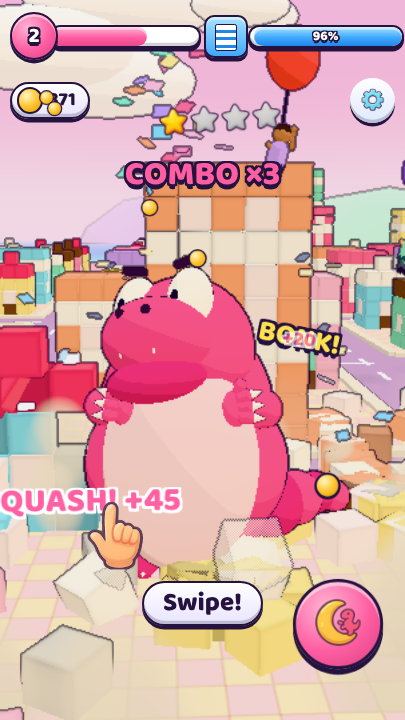
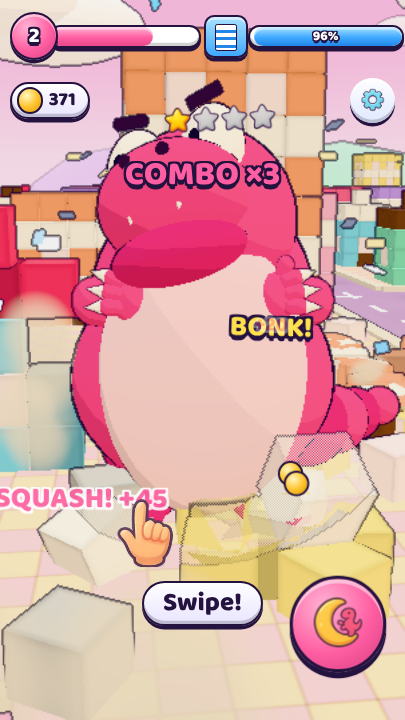
Toy City Stomp: Bonbon selalu terlihat (kamera sinematik dan lompatan) (#62)
* fix: market-check baca feed v4; cek pasar 2026-11-19

Endpoint feed pindah dari /v3/feed ke /v4/feed, jadi Players' Choice kosong.
Task: cek backend Astrocade 2026-11-19

Claude-Session: https://claude.ai/code/session_01S4KwR7MKC4j1g8MStTRCUH

* chore: upgrade otak ASTROCADE.md, cek backend 19 Nov

Tipe tercepat diukur ulang dari laju plays live 132 game; 8 game teratas
dibedah untuk alasan tidak di-skip dan sesi panjang; cara ukur diperbarui
(feed v4, /v3/games lewat halaman game tamu, astrotopper harian).
Task: cek backend Astrocade 2026-11-19

Claude-Session: https://claude.ai/code/session_01S4KwR7MKC4j1g8MStTRCUH

* chore: upgrade otak ASTROCADE.md, rumus genre hancurkan

9 game hancurkan teratas dibedah (Smash Everything, Kaiju City, Prank City,
Crash Bot Lab, Robo-Crash, 2 TNT voxel, 2 ragdoll): hook, umpan balik,
kombo/eskalasi, koleksi alat, sasaran tak habis, pemicu share, aturan aman anak.
Task: cek backend Astrocade 2026-11-19

Claude-Session: https://claude.ai/code/session_01S4KwR7MKC4j1g8MStTRCUH

* feat: Toy City Stomp, uji rupa 3D monster raksasa di kota mainan

Bonbon berjalan satu jari, gigit balok, rumah ambruk, menara domino, mobil penyok,
warga balon, tumbuh 8 tahap, kombo, Putar Ekor, layar hasil, 7 bahasa, tembus pandang.
Alat baru tools/artifact-modules.js untuk artifact game modul ES.
Task: GDD Toy City Stomp K1-K6 (artifact 2026-11-19)

Claude-Session: https://claude.ai/code/session_01S4KwR7MKC4j1g8MStTRCUH
[…]

diff --git a/prototypes/toy-city-stomp/game.js b/prototypes/toy-city-stomp/game.js
@@ -351,7 +351,7 @@ function startGame(mode) {
     resize();
     S = {
       x: city.start.x, z: city.start.z, yaw: Math.PI, stage: 1, xp: 0, points: 0, coins: 0, combo: 0, comboT: 0, bestCombo: 0,
-      time: 0, attackT: 0, tooBigT: 0, slowT: 0, hitstopT: 0, lookT: 0, turnT: 0, lookP: new THREE.Vector3(), fidgeted: false, trauma: 0, finished: false, idle: 0, touched: false,
+      time: 0, attackT: 0, tooBigT: 0, slowT: 0, hitstopT: 0, lookT: 0, turnT: 0, lookP: new THREE.Vector3(), fidgeted: false, airY: 0, trauma: 0, finished: false, idle: 0, touched: false,
       skillCd: 0, spinT: 0, sweepT: 0, moving: false, speed: 0, chainShown: 0, stepT: 0, firstBonk: false,
       scale: G.baseScale, scaleTarget: G.baseScale, kbX: 0, kbZ: 0, bonusCoins: 0, trucks: 0, truckSet: new Set(), rainbowUsed: false, rainbowT: 0, jingleT: 2, spirit: 0, dizzyT: 0, clock: 0, acts: [], jump: null, skillCdMax: 1, bossDone: false, avoidX: 0, avoidZ: 0, avoidT: 0, pct: 100, cars: 0, hits: 0, blocks0: 0, poseT: 0, carTipT: 2, thrown: 0, daily, dailyBonus: 0, theme: ti, day, collapses: 0, stickerAt: 0, newSticker: '', newCity: -1,
     };
@@ -1078,7 +1078,12 @@ function startGame(mode) {
   function startCine(kind, x, z, dur) {
     if (calm || !dur || camOverride) return;
     if (cine.kind && performance.now() / 1000 - cine.t0 < cine.dur && kind !== 'boss') return;
-    Object.assign(cine, { kind, t0: performance.now() / 1000, dur, x, z });
+    if (kind === 'collapse') { monV.set(x, 2, z).project(camera); if (monV.z > 1 || Math.abs(monV.x) > 1.2) return; } // only a collapse ahead of the camera: one behind it would pull the view off Bonbon
+    Object.assign(cine, { kind, t0: performance.now() / 1000, dur, x, z, dir: 0, outT: 0, outB: 1, ux: 0, uz: 1 });
+    if (kind === 'boss') { // the shot's direction is taken once: walking past the boss mid-shot never swings the camera round
+      const dx = S.x - x, dz = S.z - z, dl = Math.hypot(dx, dz);
+      if (dl > 4 * S.scale) { cine.ux = dx / dl; cine.uz = dz / dl; } else { cine.ux = -Math.sin(S.yaw); cine.uz = -Math.cos(S.yaw); } // boss right beside Bonbon: from behind Bonbon
+    }
   }
   const follow = { x: 0, z: 0, vx: 0, vz: 0, init: false };
   const calm = typeof matchMedia === 'function' && matchMedia('(prefers-reduced-motion: reduce)').matches;
@@ -1092,29 +1097,46 @@ function startGame(mode) {
     if (!follow.init) { follow.x = S.x; follow.z = S.z; follow.init = true; }
     const w = 5, ax = (S.x - follow.x) * w * w - 2 * w * follow.vx, az = (S.z - follow.z) * w * w - 2 * w * follow.vz;
     follow.vx += ax * dt; follow.vz += az * dt; follow.x += follow.vx * dt; follow.z += follow.vz * dt;
+    { const lag = 2.5 * Math.pow(S.scale / G.baseScale, 0.95), fx = follow.x - S.x, fz = follow.z - S.z, fl = Math.hypot(fx, fz); // never lag so far that Bonbon leaves the frame
+      if (fl > lag) { follow.x = S.x + fx / fl * lag; follow.z = S.z + fz / fl * lag; } }
     const z = Math.pow(S.scale / G.baseScale, 0.95); // the camera backs off as fast as Bonbon grows
     // all offsets scale with Bonbon, so it keeps the same size and place on screen at every stage: low in the
     // frame, leaving the sky and what lies ahead (a boss, the next towers) in view
     camPos.set(follow.x + 0.8 * z, 8.6 * z, follow.z + 16 * z);
-    camLook.set(follow.x, 3.4 * z, follow.z - 14 * z);
+    camLook.set(follow.x, 2.9 * z + S.airY * 0.6, follow.z - 14 * z); camPos.y += S.airY * 0.4; // feet on screen; rises with a jump so Bonbon stays in view
     if (cine.kind) { // blend toward the framed shot (eases in over the first quarter, out over the last)
-      const k = (performance.now() / 1000 - cine.t0) / cine.dur, b = THREE.MathUtils.smoothstep(k, 0, 0.25) * (1 - THREE.MathUtils.smoothstep(k, 0.72, 1));
-      if (k >= 1 || S.finished) { cine.kind = ''; hud.classList.remove('cine'); }
+      const now = performance.now() / 1000, k = (now - cine.t0) / cine.dur;
+      let b = THREE.MathUtils.smoothstep(k, 0, 0.25) * (1 - THREE.MathUtils.smoothstep(k, 0.72, 1));
+      if (cine.outT) b = Math.min(b, cine.outB * (1 - THREE.MathUtils.smoothstep(now - cine.outT, 0, cine.dur * 0.3))); // the guard eases out from where the shot is
+      cine.b = b;
+      if (k >= 1 || S.finished || (cine.outT && b <= 0)) { cine.kind = ''; hud.classList.remove('cine'); }
       else {
         const fx = Math.sin(S.yaw), fz = Math.cos(S.yaw);
-        if (cine.kind === 'boss') { const bs = army.boss.scale || 1, dx = S.x - cine.x, dz = S.z - cine.z, dl = Math.hypot(dx, dz) || 1, d = (15 - k * 4) * bs;
-          cineP.set(cine.x + dx / dl * d + dz / dl * 4 * bs, 5.5 * bs, cine.z + dz / dl * d - dx / dl * 4 * bs); cineL.set(cine.x, 5 * bs, cine.z); }
-        else if (cine.kind === 'collapse') { cineP.lerpVectors(camPos, cineL.set(cine.x, 3 * z, cine.z), 0.32); cineP.x += Math.sin(k * 2) * 3 * z; cineL.set(cine.x, 2.5 * z, cine.z); }
-        else if (cine.kind === 'grow') { cineP.set(S.x + fx * 8 * z - fz * 2.5 * z, 3.4 * z, S.z + fz * 8 * z + fx * 2.5 * z); cineL.set(S.x, 1.8 * z, S.z); }
+        // every shot keeps Bonbon in the frame: the boss is seen over Bonbon's shoulder, a collapse beside it
+        if (cine.kind === 'boss') { const bs = army.boss.scale || 1, ux = cine.ux, uz = cine.uz, zz = Math.max(z, bs * 0.7), d = (18 - k * 3) * zz;
+          cineP.set(S.x + ux * d + uz * 3 * zz, 6.5 * zz, S.z + uz * d - ux * 3 * zz); cineL.set(S.x * 0.7 + cine.x * 0.3, 3 * zz, S.z * 0.7 + cine.z * 0.3); }
+        else if (cine.kind === 'collapse') { cineP.copy(camPos); cineP.y *= 0.8; cineL.set(S.x, 1.6 * S.scale, S.z).lerp(shakeV.set(cine.x, 2.5 * z, cine.z), 0.4); } // Bonbon and the falling tower share the frame
+        else if (cine.kind === 'grow') { const gx = camPos.x - S.x, gz = camPos.z - S.z, gl = Math.hypot(gx, gz) || 1; cineP.set(S.x + gx / gl * 8 * z - gz / gl * 2.5 * z, 3.4 * z, S.z + gz / gl * 8 * z + gx / gl * 2.5 * z); cineL.set(S.x, 1.8 * z, S.z); } // dollies in from the camera's side: Bonbon turns to face it
         else { const m = 1.35 * z; cineP.set(S.x + fx * 10 * m + fz * 4 * m, 1.3 * m, S.z + fz * 10 * m - fx * 4 * m); cineL.set(S.x, 2.8 * m, S.z); } // mega: a low hero angle from the front
-        camPos.lerp(cineP, b); camLook.lerp(cineL, b);
+        // orbit round Bonbon instead of cutting across: the view turns through Bonbon at mid-way, so it never slips out
+        const a0 = Math.atan2(camPos.x - S.x, camPos.z - S.z), a1 = Math.atan2(cineP.x - S.x, cineP.z - S.z), da0 = Math.atan2(Math.sin(a1 - a0), Math.cos(a1 - a0));
+        if (!cine.dir) cine.dir = da0 >= 0 ? 1 : -1; // the way round is chosen once, so a shot near 180 degrees never flips sides
+        const da = cine.dir > 0 && da0 < -0.3 ? da0 + Math.PI * 2 : cine.dir < 0 && da0 > 0.3 ? da0 - Math.PI * 2 : da0;
+        const ang = a0 + da * b, rad = THREE.MathUtils.lerp(Math.hypot(camPos.x - S.x, camPos.z - S.z), Math.hypot(cineP.x - S.x, cineP.z - S.z), b);
+        camPos.set(S.x + Math.sin(ang) * rad, THREE.MathUtils.lerp(camPos.y, cineP.y, b), S.z + Math.cos(ang) * rad);
+        monV.set(S.x, 1.6 * S.scale + S.airY, S.z);
+        if (b < 0.5) camLook.lerp(monV, b * 2); else camLook.copy(monV).lerp(cineL, (b - 0.5) * 2);
         hud.classList.toggle('cine', b > 0.05);
       }
     }
     S.trauma = Math.max(0, S.trauma - dt * 2.2);
     const sh = S.trauma * S.trauma * FX.shakeMax * z, tt = performance.now() / 1000;
     camera.position.copy(camPos).add(shakeV.set(Math.sin(tt * 23) * sh * 0.35, Math.sin(tt * 19 + 1) * sh * 0.25, 0));
-    camera.lookAt(camLook);
+    camera.lookAt(camLook); camera.updateMatrixWorld(); // this frame's view, for the check below
+    if (cine.kind && hud.classList.contains('cine') && !cine.outT) { // safety: if Bonbon ever nears the frame's edge during a shot, ease back from here
+      let out = false; for (const h of [0.5, 1.6, 2.6]) { monV.set(S.x, h * S.scale + S.airY, S.z).project(camera); if (monV.z > 1 || Math.abs(monV.x) > 0.8 || Math.abs(monV.y) > 0.85) out = true; }
+      if (out) { cine.outT = performance.now() / 1000; cine.outB = cine.b; }
+    }
     if (camOverride) { camera.position.copy(camOverride.p); camera.lookAt(camOverride.l); } // tests only: a fixed close-up
     city.setXray(camera.position, monV.set(S.x, 1.4 * S.scale, S.z), 1.6 * S.scale);
     sky.position.copy(camera.position);
@@ -1188,7 +1210,7 @@ function startGame(mode) {
       const lim = city.half + 2; S.x = THREE.MathUtils.clamp(S.x, -lim, lim); S.z = THREE.MathUtils.clamp(S.z, -lim, lim);
       if (k >= 1) { S.jump = null; bon.stomp(1.6); Sound.land(); if (!S.finished) J.onLand(); }
     }
-    bon.root.position.set(S.x, airY, S.z); bon.root.rotation.y = S.yaw;
+    S.airY = airY; bon.root.position.set(S.x, airY, S.z); bon.root.rotation.y = S.yaw;
     S.lookT -= dt;
     // left alone for a moment: Bonbon waves at the child (once each time)
     if (S.idle < 0.5) S.fidgeted = false; else if (S.touched && !S.fidgeted && S.idle > ((cfg.react && cfg.react.fidgetSec) || 2.2) && !bon.posing && !S.jump && !S.finished) { S.fidgeted = true; bon.pose('wave', 1.4); bon.face('happy', 1.4); }

diff --git a/prototypes/toy-city-stomp/playtest.js b/prototypes/toy-city-stomp/playtest.js
@@ -230,7 +230,7 @@ const server = http.createServer((q, s) => {
     const word = await page.waitForFunction(() => document.querySelector('.comic'), null, { timeout: 5000 }).then(() => g(() => document.querySelector('.comic').textContent)).catch(() => '');
     await page.waitForTimeout(600);
     const r = await g((p0) => ({ thrown: __game.S.thrown, landed: !!window.__car.land, pts: __game.S.points - p0 }), p0);
-    check(r.thrown === 1 && r.landed && r.pts > 0 && word, `tapping a car throws it; it lands with "${word}" and breaks things (+${r.pts})`);
+    check(r.thrown === 1 && r.landed && r.pts > 0 && word, `tapping a car throws it; it lands with "${word}" and breaks things (+${r.pts}) ${JSON.stringify(r)}`);
   }
   // switching cities rebuilds the sky's reflections without leaving the old ones on the GPU
   {
@@ -374,6 +374,7 @@ const server = http.createServer((q, s) => {
       S.idle = 2.5; await w(400); const wave = S.fidgeted && __game.posing;
       for (let i = 0; i < 40 && __game.posing; i++) await w(100);
       S.idle = -99; __game.grow(); const shot = __game.cine.kind; let bars = false;
+      __game.cine.kind = ''; __game.startCine('grow', S.x, S.z, 6); // a longer shot, so a slow test machine still sees its bars
       for (let i = 0; i < 30 && !bars; i++) { await w(100); bars = document.querySelector('.hud').classList.contains('cine'); }
       for (let i = 0; i < 60 && __game.cine.kind; i++) await w(100);
       return { tickle, wave, shot, bars, ended: !__game.cine.kind && !document.querySelector('.hud').classList.contains('cine') }; });
@@ -388,6 +389,26 @@ const server = http.createServer((q, s) => {
     const ok = await pw.waitForFunction(() => !document.getElementById('load') && document.querySelector('#app button[aria-label="Retry"]'), null, { timeout: 20000 }).then(() => true, () => false);
     check(ok, `with no WebGL the loading screen goes and a retry button shows (${ok})`);
     await pw.close();
+  }
+  // Bonbon is always in the frame: while playing and during every cinematic shot (feet, chest and head on screen, never behind the camera)
+  {
+    const pv = await browser.newPage({ viewport: { width: 405, height: 720 } });
+    await pv.goto(`http://localhost:${port}/?local&tier=0&speed=3`);
+    await pv.waitForFunction(() => window.__game && window.__game.S && !document.getElementById('load'), null, { timeout: 30000 });
+    await pv.evaluate(() => { window.__vis = {}; const S = __game.S; S.touched = true; document.querySelector('#hint').hidden = true; const v = new THREE.Vector3();
+      window.__visT = setInterval(() => { const S = __game.S; let w = 0; for (const h of [0.4, 1.5, 2.6]) { v.set(S.x, h * S.scale + (S.airY || 0), S.z).project(__game.camera); w = Math.max(w, Math.abs(v.x), Math.abs(v.y), v.z > 1 ? 9 : 0); }
+        const k = __game.cine.kind || (S.jump ? 'jump' : 'play'); window.__vis[k] = Math.max(window.__vis[k] || 0, +w.toFixed(2)); }, 100); });
+    const step = async (js, ms) => { await pv.evaluate(js); await pv.waitForTimeout(ms); };
+    await step('__game.grow()', 3000);
+    await step('(() => { const S = __game.S; __game.cine.kind = ""; __game.startCine("boss", S.x - 40, S.z - 30, 2.4); })()', 3200);
+    await step('(() => { const S = __game.S; __game.cine.kind = ""; __game.startCine("boss", S.x + 10, S.z + 45, 2.4); })()', 3200);
+    await step('(() => { const S = __game.S; __game.cine.kind = ""; __game.startCine("collapse", S.x + 9, S.z - 28, 1.3); })()', 2200);
+    await step('(() => { const S = __game.S; __game.cine.kind = ""; __game.startCine("mega", S.x, S.z, 1.4); })()', 2200);
+    await step('(() => { const S = __game.S; __game.cine.kind = ""; S.jump = { sx: S.x, sz: S.z, tx: S.x, tz: S.z - 6, t: 0, dur: 6, h: 12 * Math.sqrt(S.scale), onLand() {} }; })()', 3500); // a moon-high jump
+    await step('__game.S.idle = 99', 3500);
+    const vis = await pv.evaluate(() => { clearInterval(window.__visT); return window.__vis; });
+    check(Object.values(vis).every((w) => w <= 1) && vis.play !== undefined && vis.jump !== undefined, `Bonbon stays on screen while playing and in every shot (furthest from centre: ${JSON.stringify(vis)})`);
+    await pv.close();
   }
   // a save that fails to load is never written over (it would wipe coins, moves and the all-time total)
   {
